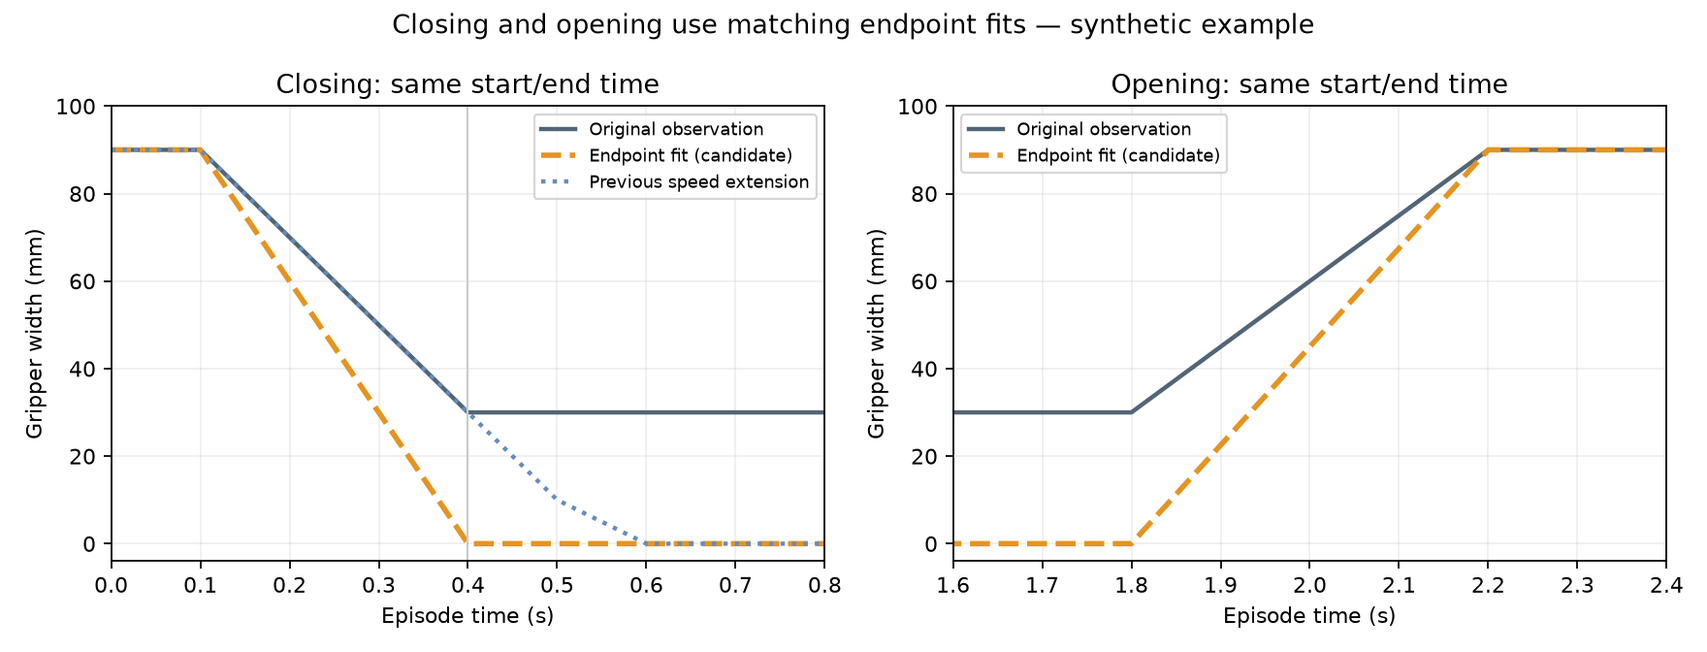
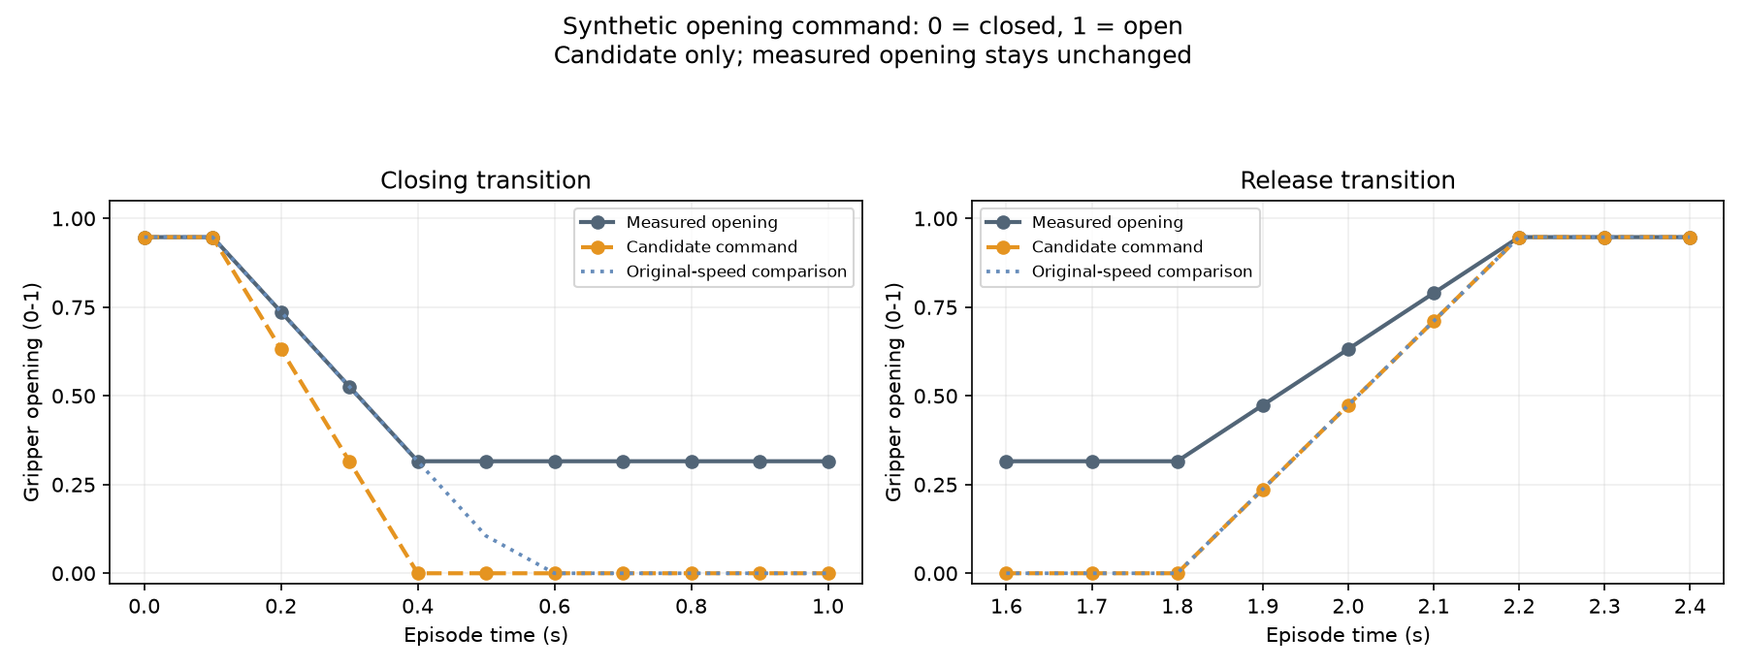
fix: show normalized gripper opening commands in review GUI

diff --git a/examples/synthetic_review.html b/examples/synthetic_review.html
@@ -1,14 +1,15 @@
 <!doctype html><html lang="zh"><meta charset="utf-8">
-<title>夹爪曲线审阅</title><style>
+<title>夹爪开度曲线审阅</title><style>
 body{font:16px system-ui;margin:24px auto;max-width:1200px;padding:0 20px;background:#f4f7fa;color:#172b40}
 h1{font-size:26px}select,input{font:inherit}section{background:white;padding:18px;margin:18px 0;border-radius:12px}
 svg{width:100%;height:auto}pre{white-space:pre-wrap;font-size:12px;max-height:360px;overflow:auto}
 .legend span{margin-right:22px}.frames{display:flex;gap:14px;flex-wrap:wrap}.frame{width:45%;min-width:250px}.frame img{width:100%}
 .note{padding:12px;background:#fff4d5;border-left:4px solid #be7a13}button{margin-left:12px}
-</style><h1>双侧夹爪 · 曲线与视觉证据审阅</h1>
+</style><h1>双侧夹爪 · 开度指令与视觉证据审阅</h1>
+<p>纵轴为归一化夹爪开度（0～1）：0 = 全闭，1 = 全开。灰线是原始实测开度；目标开度为0表示发出全闭指令，持物时实测开度仍可大于0。</p>
 <p class="note">橙色为待复核候选；绿色仅为通过当前契约的目标。合成示例只验证数学行为。释放策略尚未批准，含释放事件不进入有效训练标签。真实模型判断不等于人工参考。</p>
 <label>Episode <select id="episodes"></select></label><section><div id="identity"></div>
-<p class="legend"><span style="color:#526577">━ 原始从臂</span><span style="color:#e59420">┄ 候选曲线</span><span id="closingLegend" style="color:#668cba">┈ 闭合对照方案</span><span style="color:#12826c">━ 有效目标</span></p>
+<p class="legend"><span style="color:#526577">━ 原始实测开度</span><span style="color:#e59420">┄ 候选目标开度</span><span id="closingLegend" style="color:#668cba">┈ 闭合对照方案</span><span style="color:#12826c">━ 有效目标开度</span></p>
 <div id="charts"></div><input id="scrub" type="range" min="0" value="0" style="width:90%"><button id="play">播放</button><p id="time"></p></section>
 <section><h2>同侧腕部画面</h2><div class="frames" id="frames"></div></section>
 <section><h2>闭合拟合</h2><div id="closing"></div></section>
@@ -20,14 +21,14 @@ function line(values,col,accepted=false){let active=false;return values.map((v,i
 function comparisonValues(c){return r.closing_policy==='original_speed'?c.fixed_timing:c.original_speed}
 function comparisonLine(c){return comparisonValues(c).slice(c.start,c.display_end+1).map((v,j)=>(j?'L':'M')+(55+930*(r.t[c.start+j]-r.t[0])/(r.t.at(-1)-r.t[0]||1)).toFixed(2)+','+(190-v*160).toFixed(2)).join(' ')}
 function render(){r=records[+$('episodes').value];$('identity').textContent=JSON.stringify(r.identity);$('scrub').max=r.t.length-1;$('scrub').value=0;
-$('charts').innerHTML=[0,1].map(col=>`<svg viewBox="0 0 1020 230"><text x="5" y="20">${col?'右':'左'}夹爪 / mm</text>${[0,25,50,75,95].map(v=>`<path d="M55 ${190-v/95*160}H985" stroke="#e6ebef"/><text x="12" y="${194-v/95*160}" font-size="12">${v}</text>`).join('')}<path d="${line(r.original,col)}" stroke="#526577" fill="none" stroke-width="2"/><path d="${line(r.preview,col)}" stroke="#e59420" fill="none" stroke-width="3" stroke-dasharray="6 4"/><path d="${line(r.target,col,true)}" stroke="#12826c" fill="none" stroke-width="1.5"/><line class="cursor" y1="25" y2="195" stroke="#9b3065"/><text x="55" y="218" font-size="12">${r.t[0]} s</text><text x="930" y="218" font-size="12">${r.t.at(-1)} s</text></svg>`).join('');
+$('charts').innerHTML=[0,1].map(col=>`<svg viewBox="0 0 1020 230"><text x="5" y="20">${col?'右':'左'}夹爪开度（0～1）</text>${[0,.25,.5,.75,1].map(v=>`<path d="M55 ${190-v*160}H985" stroke="#e6ebef"/><text x="12" y="${194-v*160}" font-size="12">${v}</text>`).join('')}<path d="${line(r.original,col)}" stroke="#526577" fill="none" stroke-width="2"/><path d="${line(r.preview,col)}" stroke="#e59420" fill="none" stroke-width="3" stroke-dasharray="6 4"/><path d="${line(r.target,col,true)}" stroke="#12826c" fill="none" stroke-width="1.5"/><line class="cursor" y1="25" y2="195" stroke="#9b3065"/><text x="55" y="218" font-size="12">${r.t[0]} s</text><text x="930" y="218" font-size="12">${r.t.at(-1)} s</text></svg>`).join('');
 $('closingLegend').textContent=r.closing_policy==='original_speed'?'┈ 固定时序闭合拟合对照':'┈ 原速闭合延伸对照';
 $('charts').querySelectorAll('svg').forEach((svg,col)=>r.closing_comparisons.filter(c=>c.side===(col?'right':'left')&&comparisonValues(c)).forEach(c=>{let p=document.createElementNS('http://www.w3.org/2000/svg','path');p.setAttribute('d',comparisonLine(c));p.setAttribute('stroke','#668cba');p.setAttribute('stroke-dasharray','2 4');p.setAttribute('fill','none');p.setAttribute('stroke-width','2');svg.append(p)}));
 $('closing').textContent=`当前闭合策略：${r.closing_policy==='original_speed'?'按原速延伸':'固定起止时刻的端点拟合'}。\n`+(r.closing_comparisons.length?r.closing_comparisons.map(c=>`${c.side} · 原闭合帧 ${c.start}–${c.end}：端点拟合在原结束时刻到0，改变闭合速度；原速延伸需额外 ${c.extra_time_needed_s.toFixed(3)} s。${c.original_speed?'':'原速方案不能在确认持物范围内到0，未绘制。'}`).join('\n'):'无可拟合的非零平台闭合段。');
 $('events').textContent=JSON.stringify({pipeline_issues:r.issues,candidates:r.candidates,events:r.events,closing_comparisons:r.closing_comparisons,release_comparisons:r.comparisons},null,2);
-$('release').textContent=r.comparisons.length?r.comparisons.map(c=>`${c.side} · 帧 ${c.start}–${c.end}：橙线保留释放起止时刻，改变张开速度；按原估计速度 ${c.opening_speed_mm_s.toFixed(1)} mm/s 从0开始，额外需要 ${c.extra_time_needed_s.toFixed(3)} s。${c.original_speed?'原速候选也能在确认窗口内完成。':'确认窗口不足，原速方案未延伸到窗口外。'} 两种方案均未批准。`).join('\n'):'本片段无可比较的完整释放候选。';scrub()}
+$('release').textContent=r.comparisons.length?r.comparisons.map(c=>`${c.side} · 帧 ${c.start}–${c.end}：橙线保留释放起止时刻，改变张开速度；按原估计速度 ${(c.opening_speed_mm_s/95).toFixed(3)} 开度/秒从0开始，额外需要 ${c.extra_time_needed_s.toFixed(3)} s。${c.original_speed?'原速候选也能在确认窗口内完成。':'确认窗口不足，原速方案未延伸到窗口外。'} 两种方案均未批准。`).join('\n'):'本片段无可比较的完整释放候选。';scrub()}
 function scrub(){let i=+$('scrub').value,t=r.t[i],x=55+930*(t-r.t[0])/(r.t.at(-1)-r.t[0]||1);document.querySelectorAll('.cursor').forEach(el=>{el.setAttribute('x1',x);el.setAttribute('x2',x)});
-$('time').textContent=`帧 ${i} · episode ${t.toFixed(2)} s · 左/右原值 ${r.original[i].map(x=>(x*95).toFixed(2)).join(' / ')} mm`;
+$('time').textContent=`帧 ${i} · episode ${t.toFixed(2)} s · 左/右实测开度 ${r.original[i].map(x=>x.toFixed(3)).join(' / ')} · 候选目标开度 ${r.preview[i].map(x=>x.toFixed(3)).join(' / ')} · 有效目标开度 ${r.target[i].map((x,col)=>r.valid[i][col]?x.toFixed(3):'未确认').join(' / ')}`;
 $('frames').replaceChildren();[...new Set(r.frames.map(f=>f.camera))].forEach(camera=>{let fs=r.frames.filter(f=>f.camera===camera),f=fs.reduce((a,b)=>Math.abs(b.timestamp-t)<Math.abs(a.timestamp-t)?b:a),d=document.createElement('div');d.className='frame';let p=document.createElement('p');p.textContent=`${camera} · 证据帧 ${f.frame_index} · 视频 ${f.video_timestamp.toFixed(2)}s · 距光标 ${Math.abs(f.timestamp-t).toFixed(2)}s`;d.append(p);let img=document.createElement('img');img.src=f.path;d.append(img);$('frames').append(d)});
 if(!r.frames.length)$('frames').textContent='此示例无视觉证据；请查看来源标记。'}
 $('episodes').onchange=render;$('scrub').oninput=scrub;$('play').onclick=()=>{if(timer){clearInterval(timer);timer=null;return}timer=setInterval(()=>{$('scrub').value=(+$('scrub').value+1)%r.t.length;scrub()},100)};if(records.length)render();</script></html>

diff --git a/close_gripper/report.py b/close_gripper/report.py
@@ -25,16 +25,17 @@ def write_report(run_dir, records):
                          closing_policy=result.get("config", {}).get("closing_policy", "fixed_timing")))
     encoded = json.dumps(data, ensure_ascii=False).replace("<", "\\u003c")
     page = r'''<!doctype html><html lang="zh"><meta charset="utf-8">
-<title>夹爪曲线审阅</title><style>
+<title>夹爪开度曲线审阅</title><style>
 body{font:16px system-ui;margin:24px auto;max-width:1200px;padding:0 20px;background:#f4f7fa;color:#172b40}
 h1{font-size:26px}select,input{font:inherit}section{background:white;padding:18px;margin:18px 0;border-radius:12px}
 svg{width:100%;height:auto}pre{white-space:pre-wrap;font-size:12px;max-height:360px;overflow:auto}
 .legend span{margin-right:22px}.frames{display:flex;gap:14px;flex-wrap:wrap}.frame{width:45%;min-width:250px}.frame img{width:100%}
 .note{padding:12px;background:#fff4d5;border-left:4px solid #be7a13}button{margin-left:12px}
-</style><h1>双侧夹爪 · 曲线与视觉证据审阅</h1>
+</style><h1>双侧夹爪 · 开度指令与视觉证据审阅</h1>
+<p>纵轴为归一化夹爪开度（0～1）：0 = 全闭，1 = 全开。灰线是原始实测开度；目标开度为0表示发出全闭指令，持物时实测开度仍可大于0。</p>
 <p class="note">橙色为待复核候选；绿色仅为通过当前契约的目标。合成示例只验证数学行为。释放策略尚未批准，含释放事件不进入有效训练标签。真实模型判断不等于人工参考。</p>
 <label>Episode <select id="episodes"></select></label><section><div id="identity"></div>
-<p class="legend"><span style="color:#526577">━ 原始从臂</span><span style="color:#e59420">┄ 候选曲线</span><span id="closingLegend" style="color:#668cba">┈ 闭合对照方案</span><span style="color:#12826c">━ 有效目标</span></p>
+<p class="legend"><span style="color:#526577">━ 原始实测开度</span><span style="color:#e59420">┄ 候选目标开度</span><span id="closingLegend" style="color:#668cba">┈ 闭合对照方案</span><span style="color:#12826c">━ 有效目标开度</span></p>
 <div id="charts"></div><input id="scrub" type="range" min="0" value="0" style="width:90%"><button id="play">播放</button><p id="time"></p></section>
 <section><h2>同侧腕部画面</h2><div class="frames" id="frames"></div></section>
 <section><h2>闭合拟合</h2><div id="closing"></div></section>
@@ -46,14 +47,14 @@ function line(values,col,accepted=false){let active=false;return values.map((v,i
 function comparisonValues(c){return r.closing_policy==='original_speed'?c.fixed_timing:c.original_speed}
 function comparisonLine(c){return comparisonValues(c).slice(c.start,c.display_end+1).map((v,j)=>(j?'L':'M')+(55+930*(r.t[c.start+j]-r.t[0])/(r.t.at(-1)-r.t[0]||1)).toFixed(2)+','+(190-v*160).toFixed(2)).join(' ')}
 function render(){r=records[+$('episodes').value];$('identity').textContent=JSON.stringify(r.identity);$('scrub').max=r.t.length-1;$('scrub').value=0;
-$('charts').innerHTML=[0,1].map(col=>`<svg viewBox="0 0 1020 230"><text x="5" y="20">${col?'右':'左'}夹爪 / mm</text>${[0,25,50,75,95].map(v=>`<path d="M55 ${190-v/95*160}H985" stroke="#e6ebef"/><text x="12" y="${194-v/95*160}" font-size="12">${v}</text>`).join('')}<path d="${line(r.original,col)}" stroke="#526577" fill="none" stroke-width="2"/><path d="${line(r.preview,col)}" stroke="#e59420" fill="none" stroke-width="3" stroke-dasharray="6 4"/><path d="${line(r.target,col,true)}" stroke="#12826c" fill="none" stroke-width="1.5"/><line class="cursor" y1="25" y2="195" stroke="#9b3065"/><text x="55" y="218" font-size="12">${r.t[0]} s</text><text x="930" y="218" font-size="12">${r.t.at(-1)} s</text></svg>`).join('');
+$('charts').innerHTML=[0,1].map(col=>`<svg viewBox="0 0 1020 230"><text x="5" y="20">${col?'右':'左'}夹爪开度（0～1）</text>${[0,.25,.5,.75,1].map(v=>`<path d="M55 ${190-v*160}H985" stroke="#e6ebef"/><text x="12" y="${194-v*160}" font-size="12">${v}</text>`).join('')}<path d="${line(r.original,col)}" stroke="#526577" fill="none" stroke-width="2"/><path d="${line(r.preview,col)}" stroke="#e59420" fill="none" stroke-width="3" stroke-dasharray="6 4"/><path d="${line(r.target,col,true)}" stroke="#12826c" fill="none" stroke-width="1.5"/><line class="cursor" y1="25" y2="195" stroke="#9b3065"/><text x="55" y="218" font-size="12">${r.t[0]} s</text><text x="930" y="218" font-size="12">${r.t.at(-1)} s</text></svg>`).join('');
 $('closingLegend').textContent=r.closing_policy==='original_speed'?'┈ 固定时序闭合拟合对照':'┈ 原速闭合延伸对照';
 $('charts').querySelectorAll('svg').forEach((svg,col)=>r.closing_comparisons.filter(c=>c.side===(col?'right':'left')&&comparisonValues(c)).forEach(c=>{let p=document.createElementNS('http://www.w3.org/2000/svg','path');p.setAttribute('d',comparisonLine(c));p.setAttribute('stroke','#668cba');p.setAttribute('stroke-dasharray','2 4');p.setAttribute('fill','none');p.setAttribute('stroke-width','2');svg.append(p)}));
 $('closing').textContent=`当前闭合策略：${r.closing_policy==='original_speed'?'按原速延伸':'固定起止时刻的端点拟合'}。\n`+(r.closing_comparisons.length?r.closing_comparisons.map(c=>`${c.side} · 原闭合帧 ${c.start}–${c.end}：端点拟合在原结束时刻到0，改变闭合速度；原速延伸需额外 ${c.extra_time_needed_s.toFixed(3)} s。${c.original_speed?'':'原速方案不能在确认持物范围内到0，未绘制。'}`).join('\n'):'无可拟合的非零平台闭合段。');
 $('events').textContent=JSON.stringify({pipeline_issues:r.issues,candidates:r.candidates,events:r.events,closing_comparisons:r.closing_comparisons,release_comparisons:r.comparisons},null,2);
-$('release').textContent=r.comparisons.length?r.comparisons.map(c=>`${c.side} · 帧 ${c.start}–${c.end}：橙线保留释放起止时刻，改变张开速度；按原估计速度 ${c.opening_speed_mm_s.toFixed(1)} mm/s 从0开始，额外需要 ${c.extra_time_needed_s.toFixed(3)} s。${c.original_speed?'原速候选也能在确认窗口内完成。':'确认窗口不足，原速方案未延伸到窗口外。'} 两种方案均未批准。`).join('\n'):'本片段无可比较的完整释放候选。';scrub()}
+$('release').textContent=r.comparisons.length?r.comparisons.map(c=>`${c.side} · 帧 ${c.start}–${c.end}：橙线保留释放起止时刻，改变张开速度；按原估计速度 ${(c.opening_speed_mm_s/95).toFixed(3)} 开度/秒从0开始，额外需要 ${c.extra_time_needed_s.toFixed(3)} s。${c.original_speed?'原速候选也能在确认窗口内完成。':'确认窗口不足，原速方案未延伸到窗口外。'} 两种方案均未批准。`).join('\n'):'本片段无可比较的完整释放候选。';scrub()}
 function scrub(){let i=+$('scrub').value,t=r.t[i],x=55+930*(t-r.t[0])/(r.t.at(-1)-r.t[0]||1);document.querySelectorAll('.cursor').forEach(el=>{el.setAttribute('x1',x);el.setAttribute('x2',x)});
-$('time').textContent=`帧 ${i} · episode ${t.toFixed(2)} s · 左/右原值 ${r.original[i].map(x=>(x*95).toFixed(2)).join(' / ')} mm`;
+$('time').textContent=`帧 ${i} · episode ${t.toFixed(2)} s · 左/右实测开度 ${r.original[i].map(x=>x.toFixed(3)).join(' / ')} · 候选目标开度 ${r.preview[i].map(x=>x.toFixed(3)).join(' / ')} · 有效目标开度 ${r.target[i].map((x,col)=>r.valid[i][col]?x.toFixed(3):'未确认').join(' / ')}`;
 $('frames').replaceChildren();[...new Set(r.frames.map(f=>f.camera))].forEach(camera=>{let fs=r.frames.filter(f=>f.camera===camera),f=fs.reduce((a,b)=>Math.abs(b.timestamp-t)<Math.abs(a.timestamp-t)?b:a),d=document.createElement('div');d.className='frame';let p=document.createElement('p');p.textContent=`${camera} · 证据帧 ${f.frame_index} · 视频 ${f.video_timestamp.toFixed(2)}s · 距光标 ${Math.abs(f.timestamp-t).toFixed(2)}s`;d.append(p);let img=document.createElement('img');img.src=f.path;d.append(img);$('frames').append(d)});
 if(!r.frames.length)$('frames').textContent='此示例无视觉证据；请查看来源标记。'}
 $('episodes').onchange=render;$('scrub').oninput=scrub;$('play').onclick=()=>{if(timer){clearInterval(timer);timer=null;return}timer=setInterval(()=>{$('scrub').value=(+$('scrub').value+1)%r.t.length;scrub()},100)};if(records.length)render();</script></html>'''
@@ -78,24 +79,24 @@ def write_plot(run_dir, records):
         label = f"Episode {index}" if index is not None else str(ep["episode_id"]).rsplit("/", 1)[-1]
         for col, side in enumerate(("left", "right")):
             ax = axes[row, col]
-            ax.plot(ep["timestamps"], [s[(9,19)[col]] * 95 for s in ep["state"]], color="#526577", lw=2, label="Original")
-            ax.plot(ep["timestamps"], [s[col] * 95 for s in result.get("preview_target", result["target"])], color="#e59420", ls="--", lw=2, label="Review candidate")
-            ax.plot(ep["timestamps"], [s[col] * 95 if result["valid"][i][col] else float("nan") for i,s in enumerate(result["target"])], color="#12826c", lw=1, label="Accepted target (valid only)")
-            ax.set(title=f'{label} / {side}', xlabel="Episode time (s)", ylabel="Width (mm)", ylim=(-3, 100))
+            ax.plot(ep["timestamps"], [s[(9,19)[col]] for s in ep["state"]], color="#526577", lw=2, label="Measured opening")
+            ax.plot(ep["timestamps"], [s[col] for s in result.get("preview_target", result["target"])], color="#e59420", ls="--", lw=2, label="Candidate command")
+            ax.plot(ep["timestamps"], [s[col] if result["valid"][i][col] else float("nan") for i,s in enumerate(result["target"])], color="#12826c", lw=1, label="Accepted command (valid only)")
+            ax.set(title=f'{label} / {side}', xlabel="Episode time (s)", ylabel="Gripper opening (0-1)", ylim=(-.03, 1.05), yticks=[0, .25, .5, .75, 1])
             ax.grid(alpha=.2)
             for comp in result.get("closing_comparisons", []):
                 old_policy = result.get("config", {}).get("closing_policy") == "original_speed"
                 alternative = comp["fixed_timing"] if old_policy else comp["original_speed"]
                 if comp["side"] == side and alternative is not None:
                     start, end = comp["start"], comp["display_end"] + 1
-                    ax.plot(ep["timestamps"][start:end], [v*95 for v in alternative[start:end]], color="#668cba", ls=":", lw=1.8, label="Fixed-timing closure (comparison)" if old_policy else "Original-speed closure (comparison)")
+                    ax.plot(ep["timestamps"][start:end], alternative[start:end], color="#668cba", ls=":", lw=1.8, label="Fixed-timing closure (comparison)" if old_policy else "Original-speed closure (comparison)")
             comparisons = [c for c in result.get("release_comparisons", []) if c["side"] == side]
             for comp in comparisons:
                 if comp["original_speed"] is not None:
-                    ax.plot(ep["timestamps"], [v*95 for v in comp["original_speed"]], color="#7755aa", ls=":", label="Original release speed")
+                    ax.plot(ep["timestamps"], comp["original_speed"], color="#7755aa", ls=":", label="Original release speed")
                 ax.text(.02, .95, f'Original release speed needs +{comp["extra_time_needed_s"]:.2f}s', transform=ax.transAxes, fontsize=7, va="top", bbox=dict(facecolor="white", edgecolor="none", alpha=.8))
             ax.legend(fontsize=7, loc="upper right")
-    fig.suptitle("Gripper targets: review candidates are NOT approved training labels", fontsize=13)
+    fig.suptitle("Gripper opening commands: 0 = closed, 1 = open\nReview candidates are not approved training labels", fontsize=13)
     fig.tight_layout(rect=(0, 0, 1, .98))
     path = Path(run_dir) / "curves.png"
     fig.savefig(path, dpi=150)

diff --git a/close_gripper/batch_report.py b/close_gripper/batch_report.py
@@ -42,7 +42,7 @@ def _links(relative):
         return "—"
     prefix = quote(path.as_posix(), safe="/")
     return (f'<a href="{_escape(prefix)}/review.html">同步审阅</a> '
-            f'<a href="{_escape(prefix)}/curves.png">曲线图</a>')
+            f'<a href="{_escape(prefix)}/curves.png">开度曲线图</a>')
 
 
 def _counter_table(title, counts):
@@ -125,7 +125,8 @@ def write_batch_report(run_dir, rows):
 <style>
 :root{color-scheme:light}*{box-sizing:border-box}body{font:15px system-ui,sans-serif;color:#183247;background:#f3f6fa;margin:0;padding:28px}main{max-width:1720px;margin:auto}h1{font-size:28px;margin:8px 0}h2{font-size:17px}p{line-height:1.6}.muted,small{color:#61758a}small{display:block;font-size:12px;margin-top:6px;line-height:1.45}.note{background:#fff3d8;border-left:4px solid #c78217;padding:12px 16px;border-radius:4px}.cards{display:grid;grid-template-columns:repeat(auto-fit,minmax(205px,1fr));gap:12px;margin:22px 0}article{background:white;border:1px solid #dee6ee;border-radius:10px;padding:16px}article strong{display:block;font-size:29px;margin:9px 0}article span{font-size:14px}.distributions{display:grid;grid-template-columns:repeat(auto-fit,minmax(240px,1fr));gap:12px}.distribution{background:white;border-radius:10px;padding:12px 16px;max-height:300px;overflow:auto}.distribution td:last-child{text-align:right}.toolbar{display:flex;gap:10px;flex-wrap:wrap;align-items:center;margin:22px 0 12px}label{font-size:13px}input,select,button{font:inherit;background:white;border:1px solid #bbcbd9;border-radius:6px;padding:8px}input{min-width:250px}label select{margin-left:5px}.table-wrap{overflow:auto;background:white;border:1px solid #dce5ec;border-radius:10px}table{border-collapse:collapse;width:100%;font-size:13px}th,td{text-align:left;padding:11px 10px;border-bottom:1px solid #e5ebf0;vertical-align:top}th{background:#eaf0f6;white-space:nowrap;position:sticky;top:0}td.identity{min-width:240px;max-width:380px;overflow-wrap:anywhere}td.reason{min-width:180px;max-width:280px;overflow-wrap:anywhere}.badge{display:inline-block;padding:3px 7px;border-radius:5px;white-space:nowrap}.ok{background:#e1f2e9;color:#206348}.review{background:#fff0d6;color:#8a601a}.links{min-width:90px}.links a{display:block;margin-bottom:7px}a{color:#176795}tr[hidden]{display:none}button{cursor:pointer}.footer{margin:18px 0;color:#61758a;font-size:13px}@media(max-width:600px){body{padding:12px}h1{font-size:23px}}
 </style></head><body><main>
-<p class="muted">CLOSE GRIPPER / BATCH REVIEW</p><h1>真实 episode · 夹爪候选曲线审阅</h1>
+<p class="muted">CLOSE GRIPPER / BATCH REVIEW</p><h1>真实 episode · 夹爪开度曲线审阅</h1>
+<p>同步审阅页和曲线图对比原始实测开度与候选目标开度，纵轴统一为0～1（0 = 全闭，1 = 全开）。</p>
 <p class="note">本页没有人工参考，不能据此报告准确率、召回率或训练收益。模型成功仅表示调用及结构化解析成功。候选曲线不等于有效训练标签；未选中的张开事件、未触发的持续持物片段不算完成检查。</p>
 <div class="cards">__CARDS__</div>
 <div class="distributions">__DISTRIBUTIONS__</div>

diff --git a/README.md b/README.md
@@ -1,6 +1,6 @@
 # close_gripper
 
-从左右从臂开度与同侧腕部图像生成独立夹爪训练目标，保留实际观测与原时间轴。算法以 [PLAN.md](PLAN.md) 为准，工程约束见 [BOUNDARIES.md](BOUNDARIES.md)，当前验证见 [VALIDATION.md](VALIDATION.md)。
+从左右从臂实测开度与同侧腕部图像生成独立的夹爪目标开度（0～1），保留实际观测与原时间轴。目标指令与实测开度的区别、算法及未完成范围以 [PLAN.md](PLAN.md) 为准，工程约束见 [BOUNDARIES.md](BOUNDARIES.md)，当前验证见 [VALIDATION.md](VALIDATION.md)。
 
 已实现趋势检测、LeRobot v3 只读加载、Qwen 视觉适配、闭合与张开的端点拟合、原速延伸对照、同步图片与曲线审阅页、独立目标 sidecar 和本地训练适配函数。模型或合成结果只生成候选；正常释放策略仍需审阅，不标为有效训练标签。
 
@@ -20,7 +20,7 @@ python3 -m venv .venv
 .venv/bin/python -m close_gripper demo --output runs/my_demo
 ```
 
-打开 `runs/my_demo/review.html`，切换 episode，拖动时间滑块。`curves.png` 可直接查看或分享。示例涵盖左侧误开、右侧正常释放、双侧同时误开、空夹和未触发；全部标明合成来源，橙线是候选，绿色仅绘制有效目标。
+打开 `runs/my_demo/review.html`，切换 episode，拖动时间滑块。`curves.png` 可直接查看或分享。纵轴和逐帧数值均为0～1的夹爪开度，灰线为实测开度，橙线为候选目标指令，绿色仅绘制有效目标。示例涵盖左侧误开、右侧正常释放、双侧同时误开、空夹和未触发；全部标明合成来源。
 
 本次已生成的可移植示例：[曲线图](examples/synthetic_curves.png)、[交互审阅页](examples/synthetic_review.html)。闭合与张开均保留原起止时刻，将闭合终点和张开起点映射到0；蓝色虚线保留旧原速闭合延伸对照。正常释放仍只生成候选。闭合默认 `closing_policy: "fixed_timing"`，配置 `"original_speed"` 可复现旧的延伸方案。
 
@@ -96,4 +96,4 @@ actions = apply_gripper_targets(original_actions, targets, valid)
 
 根目录 `batch_review.html` 提供任务／侧别／状态筛选，逐条链接同步腕部画面和曲线；`case_results.json` 与 `summary.json` 分别保存逐条结果及汇总。模型解析成功、类别、数值回退、候选变化、有效训练目标变化和服务返回用量分别统计，不把调用成功率当作视觉准确率。失败用量未返回时保持未知。
 
-已完成100条真实episode、91种任务的检查：[统计图](examples/real100_summary.png)、[详细验证记录](VALIDATION.md#100-条真实-episode-的固定配置检查)。实际逐条审阅页保留在本地 `runs/20261103_real100_qwen/batch_review.html`；真实图像和完整响应不提交Git。
+已完成100条真实episode、91种任务的检查：[统计图](examples/real100_summary.png)、[详细验证记录](VALIDATION.md#100-条真实-episode-的固定配置检查)。最新按0～1开度展示的逐条审阅页位于本地 `runs/20261103_real100_opening_review/batch_review.html`，由原批次缓存重绘；原结果保留在 `runs/20261103_real100_qwen/`。真实图像和完整响应不提交Git。

diff --git a/VALIDATION.md b/VALIDATION.md
@@ -85,3 +85,11 @@ OMP_NUM_THREADS=1 OPENBLAS_NUM_THREADS=1 MKL_NUM_THREADS=1 \
 交付入口：本地 `runs/20261103_real100_qwen/batch_review.html` 可按任务、左右侧、类别与回退原因筛选，并逐条查看同步腕部证据和曲线。汇总图与JSON见[统计图](examples/real100_summary.png)、[统计数据](reports/20261103_real100_summary.json)。实际候选局部放大为run内 `case007_curve_detail.png`，原图证据为 `case007_evidence.png`。真实图片、完整模型响应与密钥均未纳入Git。
 
 完成证据：独立审阅 `audit_final.json` 和 `artifact_verification.json` 核对100条精确候选ID、侧别、同侧图像、输入摘要与标签不变，所有请求使用同一个实现摘要；本轮离线入口与pytest均122项通过、0跳过。仅在计算结束后修正PNG过长标题并重绘展示，未改变模型响应、算法结果或本批统计。仍无人工参考、真实准确率或训练效果验证。
+
+## GUI 开度展示核对
+
+对照 `Untitled.md` 与数据转换代码确认：输入9/19维及独立目标字段均为归一化夹爪开度。原审阅图把数值乘95后标成 `Width (mm)`；现将HTML、PNG和逐帧读数统一为0～1，并明确标注实测开度、候选目标开度和有效目标开度。语义及未完成范围见 PLAN。
+
+新审阅入口为 `runs/20261103_real100_opening_review/batch_review.html`。使用缓存重绘100条真实样本，复制4361张已有证据图片；本次模型请求0次。`render_summary.json` 记录源JSON摘要，重绘前后摘要一致，HTML内原值、候选值、目标值与有效标记逐一对应原结果。原批次的100条模型结论和候选变化数量保持不变。
+
+合成示例重绘于 `runs/20261103_opening_units/`，并同步到 `examples/`。静态图已目视核对0～1坐标及闭合／释放两端的原始与候选曲线。执行 `.venv/bin/python -B scripts/check.py`：122项通过、0跳过，包含HTML脚本语法与已有业务契约；`git diff --check` 退出0。本次仅验证展示与数值保留，未新增真实VLM、人工参考或训练效果验证，未运行完整浏览器自动化。

diff --git a/PLAN.md b/PLAN.md
@@ -16,7 +16,11 @@
 6. 闭合平台已接近 0 时，不做额外的闭合延伸，但仍检查其后出现的张开趋势。未抓住物体或证据不足的事件先保留原值。只处理确认事件及其对应过渡段，不清洗整段 episode 的所有开合。
 7. 两侧同时出现张开趋势时分别检查对应侧，结果和修改范围按侧别保存；单侧事件不得顺带修改另一侧。生成独立的训练目标字段，原始实际开度及其他原始字段保持不变。
 
-这里的夹爪数值按现有数据合同表示开口宽度，归一化值 0 为全闭、1 为全开，换算比例为 95 mm。后续计算统一使用毫米和秒，输出时转换回原归一化单位。
+任务输出是 **0～1 的夹爪开度指令标签**：0 为全闭指令、1 为全开指令。输入 `observation.state[9/19]` 是从臂实测开度；新字段 `annotation.gripper_target` 是希望策略执行的目标开度。抓住物体时，实测值可以仍为0.6，而目标应为0；目标为0不表示物体宽度或实测夹爪宽度变成0。原始观测保持不变。
+
+现有数据的实测开度由物理开口宽度除以95 mm得到。实现中的 `width_mm`、`widths` 与毫米速度仅用于内部换算和阈值估计，输出始终转换回0～1。审阅图和逐帧读数统一展示归一化开度，并区分实测开度、候选目标开度与有效目标开度。
+
+原需求还包含“抓前保持张开”的抖动清理、完整松手过渡和训练数据派生。当前只处理上述确认事件的闭合、持物与释放候选，抓前开度仍保留原值，不能宣称已完成原需求的整条干净指令曲线。
 
 ## 数据集核查结果
 
